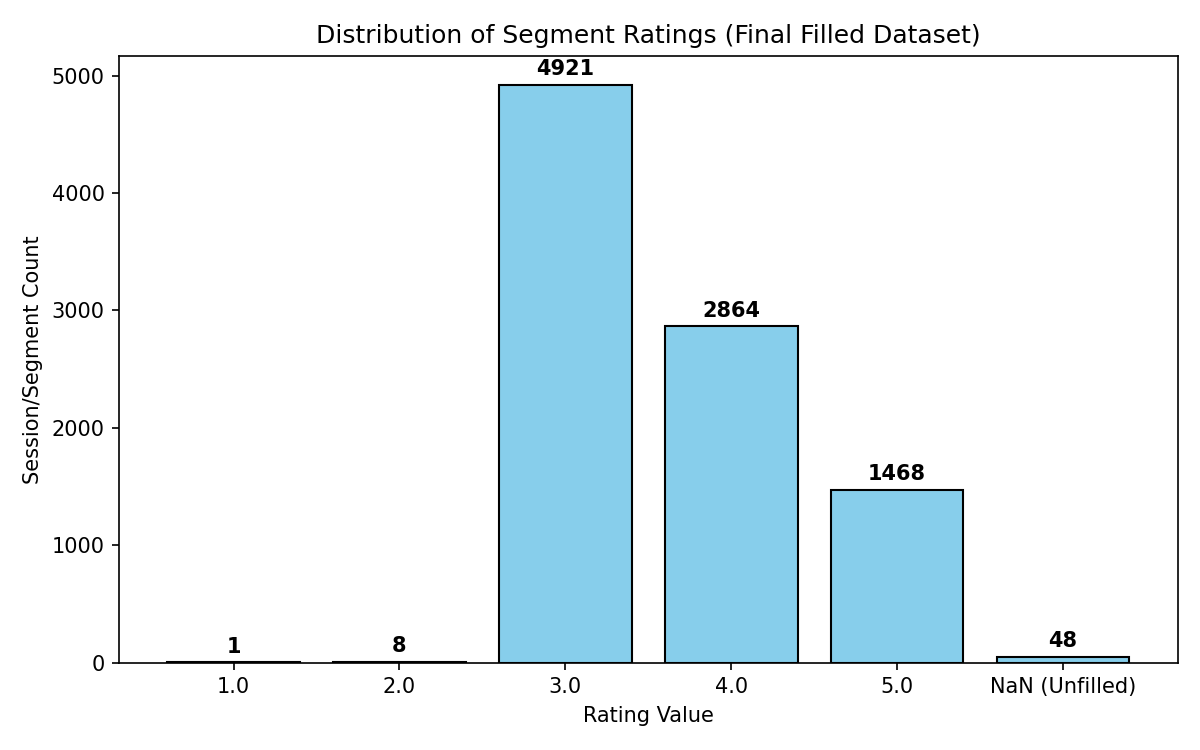
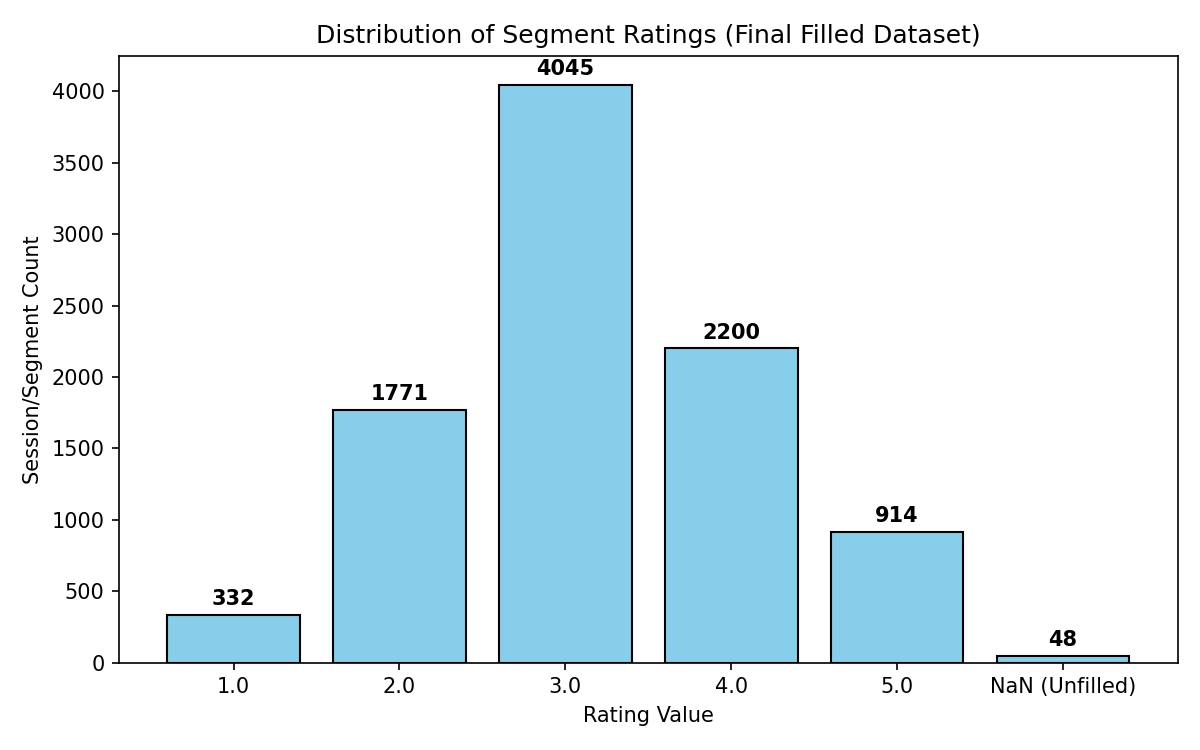
[Fix] Poor condition handling

diff --git a/MAL/scripts/fill_missing_targets.py b/MAL/scripts/fill_missing_targets.py
@@ -132,6 +132,7 @@ def fill_missing_targets_via_clustering(
     n_clusters: int = DEFAULT_N_CLUSTERS,
     random_state: int = RANDOM_STATE,
     strategy: str = "mean",
+    enable_overrides: bool = True,
 ) -> tuple[pd.DataFrame, dict[str, any]]:
     filled_df = df.copy()
     
@@ -284,6 +285,36 @@ def fill_missing_targets_via_clustering(
                 "status": status
             }
 
+    # 5.5 Apply post-propagation rule-based overrides for bad comfort conditions
+    if enable_overrides:
+        print("\nApplying post-propagation rule-based overrides for poor environmental conditions...")
+        
+        # Rule 1: Very Poor conditions (Rating = 1.0)
+        rule_1 = (
+            (filled_df["temperature_mean"] >= 29.0) |
+            (filled_df["co2_mean"] >= 2000.0) |
+            (filled_df["noise_mean"] >= 65.0)
+        )
+        
+        # Rule 2: Poor conditions (Rating = 2.0)
+        rule_2 = (
+            ((filled_df["temperature_mean"] >= 27.5) & (filled_df["temperature_mean"] < 29.0)) |
+            ((filled_df["co2_mean"] >= 1300.0) & (filled_df["co2_mean"] < 2000.0)) |
+            ((filled_df["noise_mean"] >= 60.0) & (filled_df["noise_mean"] < 65.0))
+        )
+        
+        # Only override ratings of rows that were originally unlabeled
+        original_unlabeled_mask = df["focus_score"].isna()
+        
+        # Apply rule_2 first, then rule_1 to make sure rule_1 takes precedence
+        filled_df.loc[original_unlabeled_mask & rule_2, "focus_score"] = 2.0
+        filled_df.loc[original_unlabeled_mask & rule_1, "focus_score"] = 1.0
+        
+        n_rule_1 = (original_unlabeled_mask & rule_1).sum()
+        n_rule_2 = (original_unlabeled_mask & rule_2).sum()
+        print(f"  Overrode {n_rule_1} unlabeled segments to 1.0 due to severe discomfort conditions.")
+        print(f"  Overrode {n_rule_2} unlabeled segments to 2.0 due to moderate discomfort conditions.")
+
     if unfillable_clusters:
         print(f"\n[WARNING] Could not fill targets for clusters: {unfillable_clusters} due to lack of labeled data!")
     else:
@@ -321,6 +352,7 @@ def parse_args() -> argparse.Namespace:
     parser.add_argument("--clusters", type=int, default=DEFAULT_N_CLUSTERS)
     parser.add_argument("--seed", type=int, default=RANDOM_STATE)
     parser.add_argument("--strategy", type=str, default="mean", choices=["mean", "sample", "hierarchical"])
+    parser.add_argument("--disable-overrides", action="store_true", help="Disable post-propagation rule-based overrides for bad conditions.")
     return parser.parse_args()
 
 
@@ -334,6 +366,7 @@ def main() -> None:
         n_clusters=args.clusters,
         random_state=args.seed,
         strategy=args.strategy,
+        enable_overrides=not args.disable_overrides,
     )
 
     args.output.parent.mkdir(parents=True, exist_ok=True)